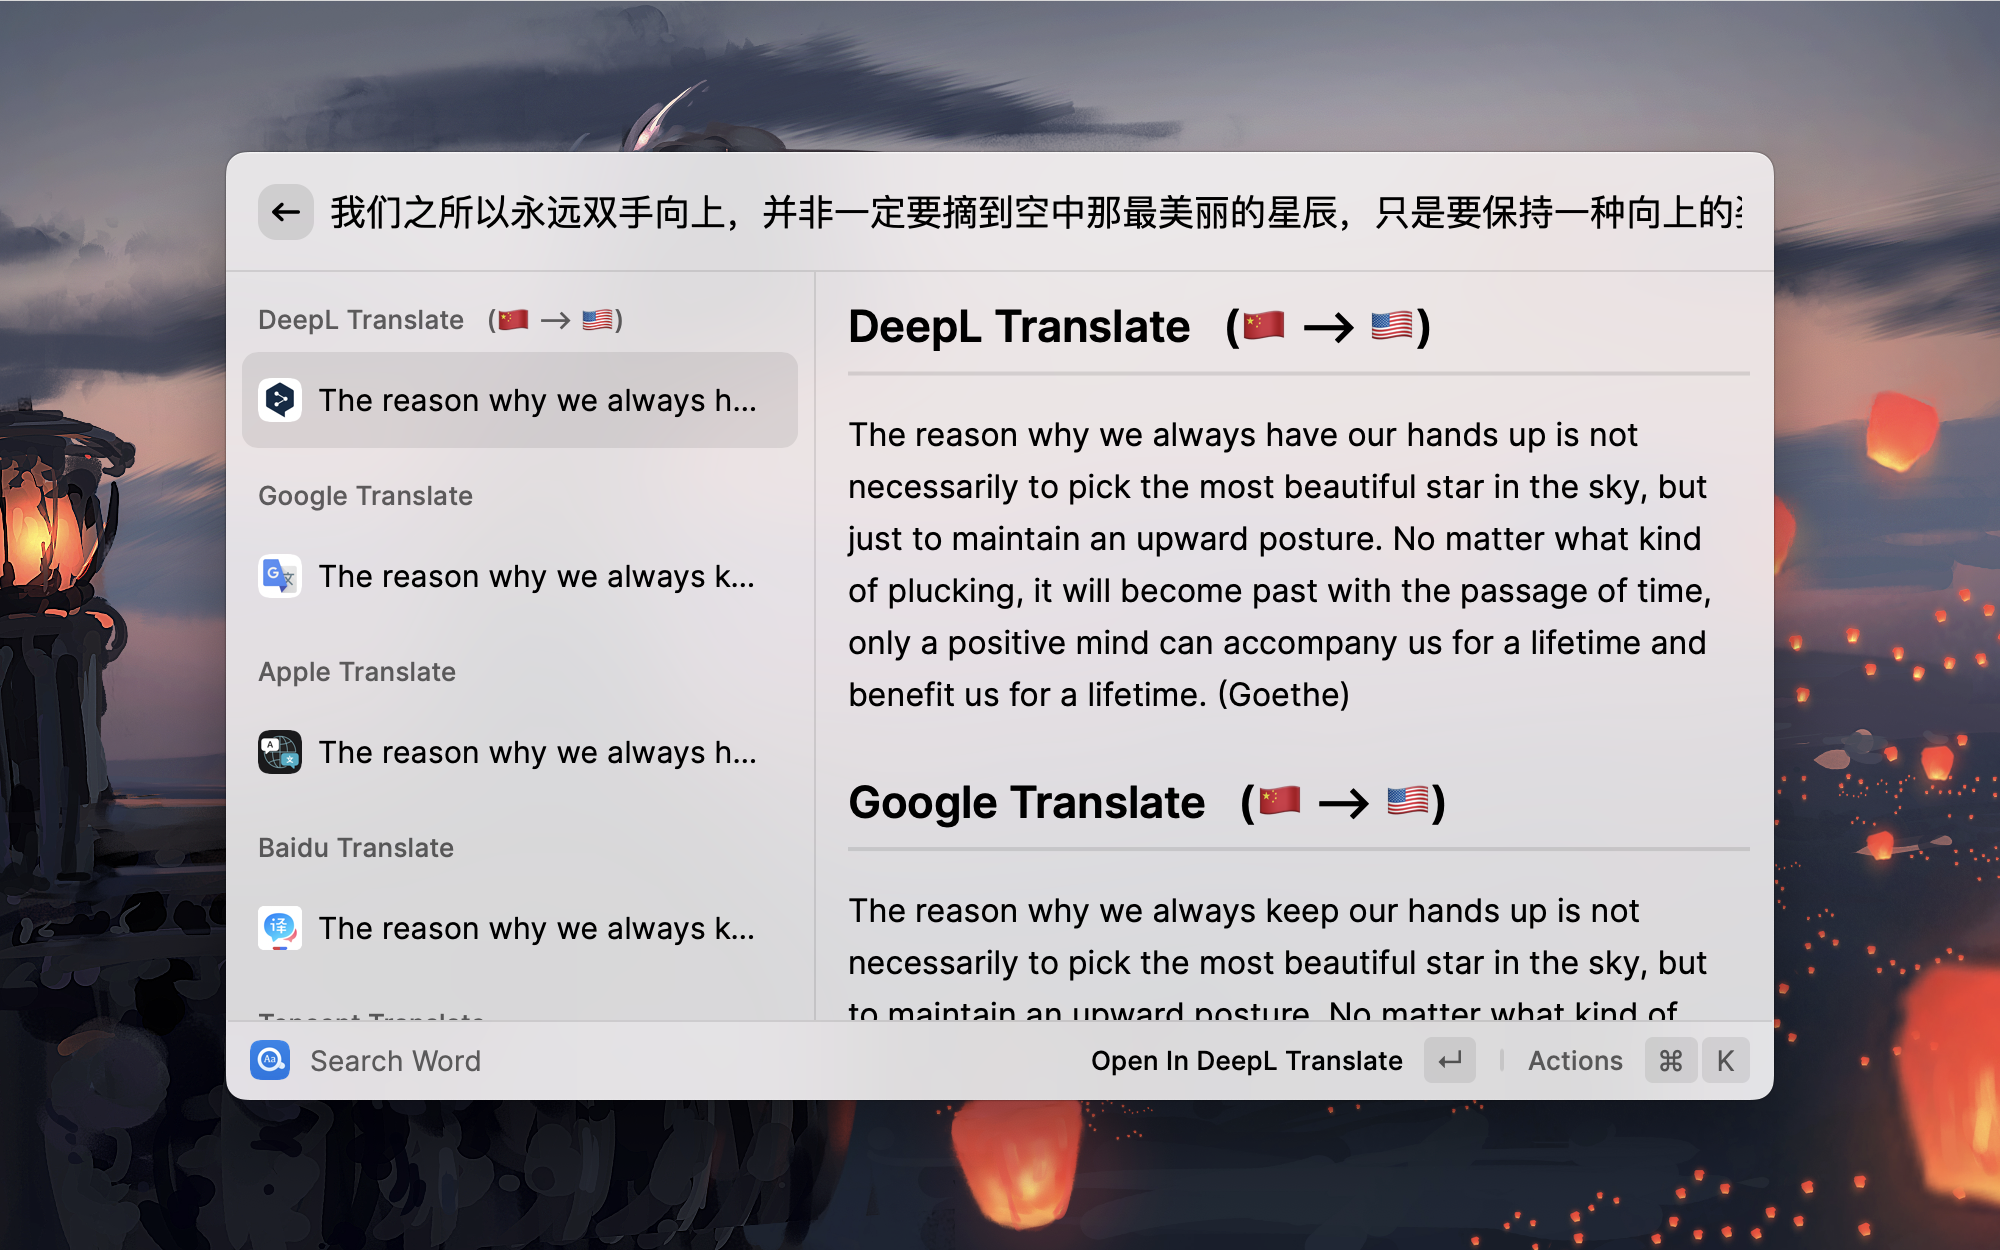
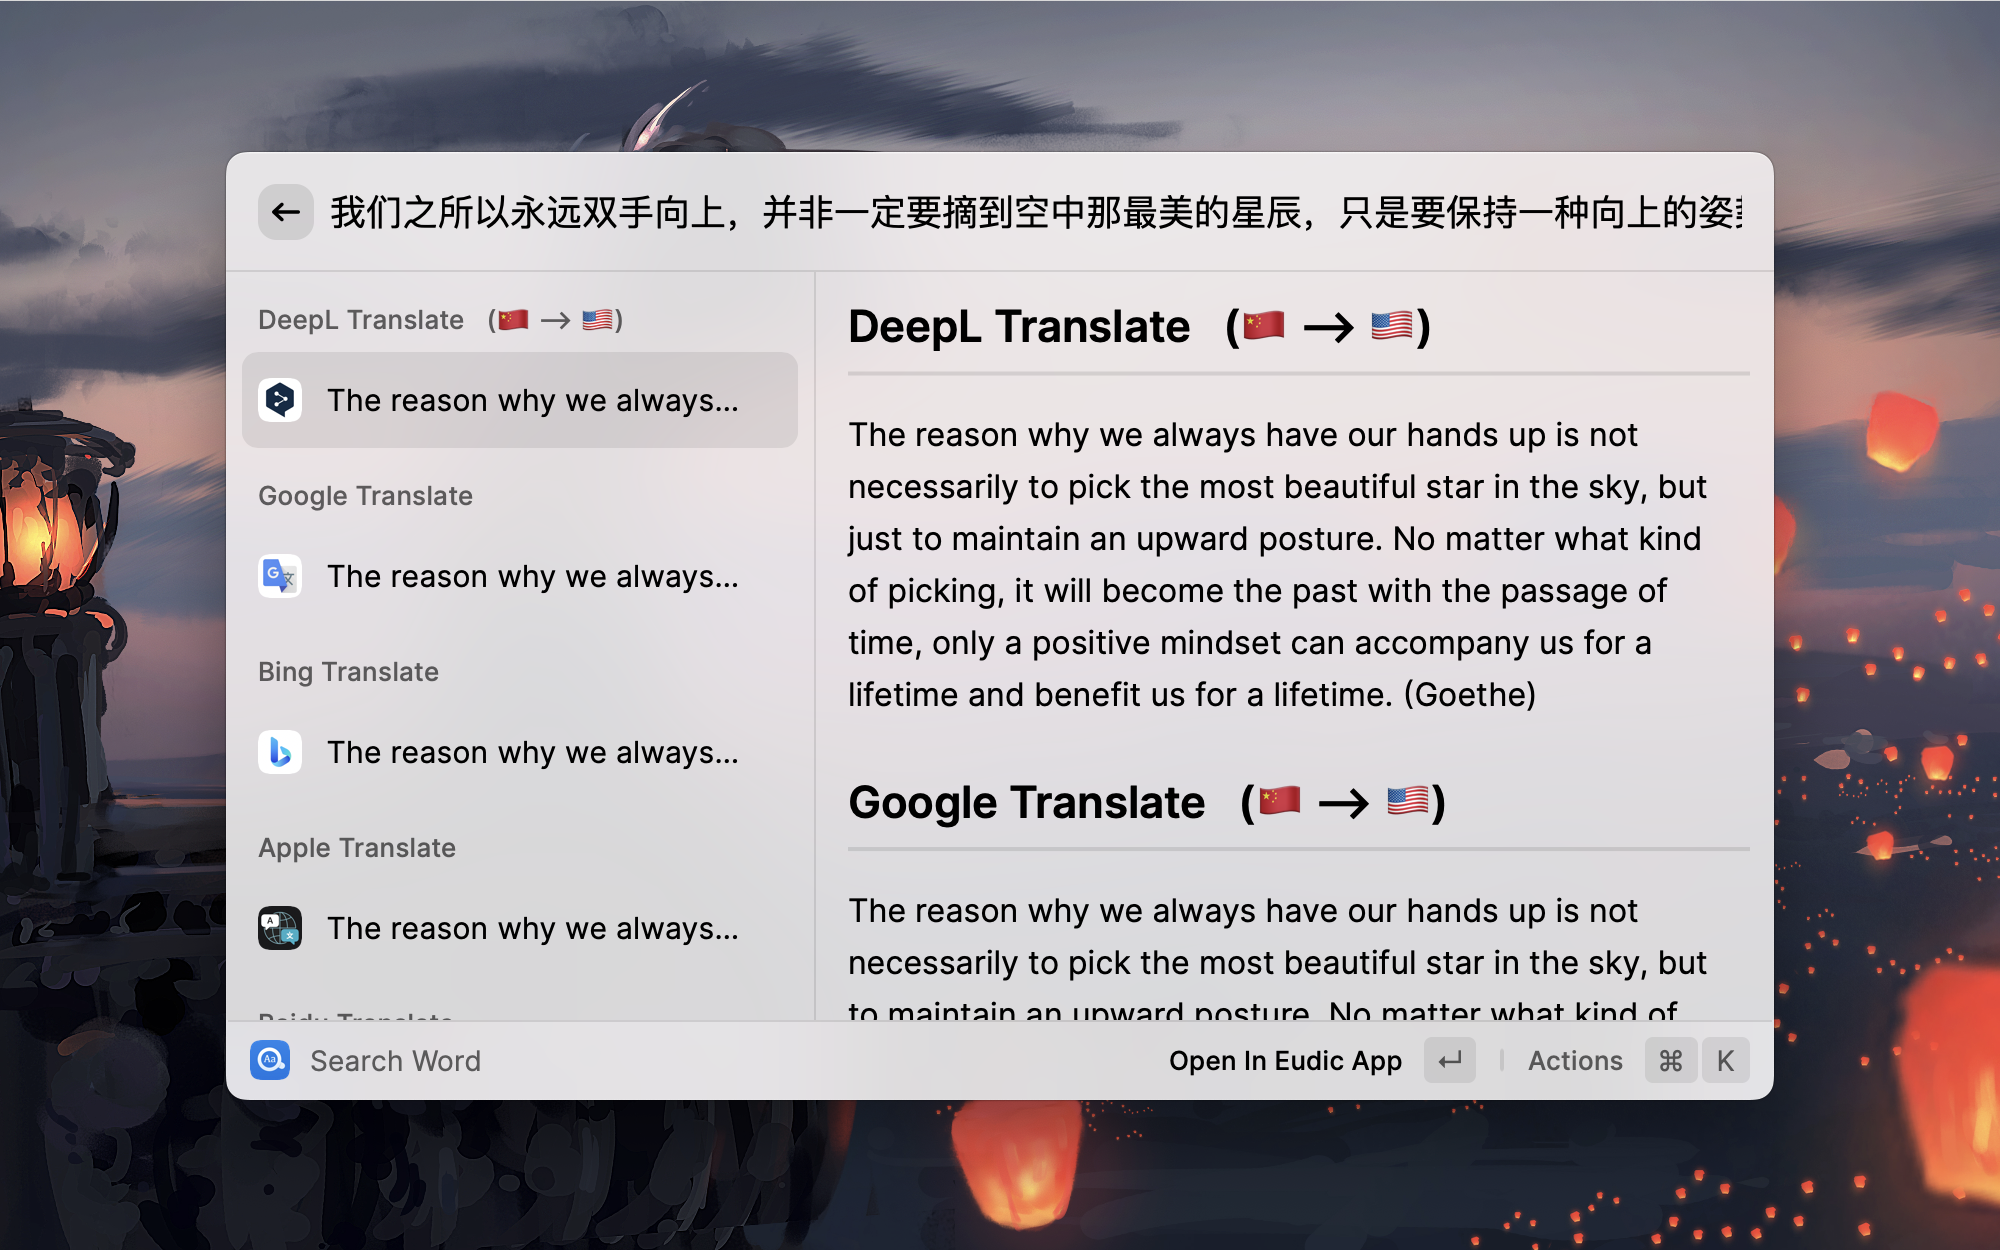
docs: update README and changelog

diff --git a/src/releaseVersion/releaseNote.ts b/src/releaseVersion/releaseNote.ts
@@ -2,35 +2,39 @@
  * @author: tisfeng
  * @createTime: 2022-07-03 22:10
  * @lastEditor: tisfeng
- * @lastEditTime: 2022-09-11 22:36
+ * @lastEditTime: 2022-09-20 00:08
  * @fileName: releaseNote.ts
  *
  * Copyright (c) 2022 by tisfeng, All Rights Reserved.
  */
 
 export const releaseNote = `
-## [v2.2.0] - 2022-09-12
+## [v2.3.0] - 2022-09-20
 
 ### ✨ 新功能
 
-- 添加有道词典维基百科释义。
-- 添加 Linguee 单词音标和收录考试类型。
+- 添加 Bing 翻译。
+- 添加 Bing 语种识别
 
-![Swift-1662903813](https://raw.githubusercontent.com/tisfeng/ImageBed/main/uPic/Swift-1662903813.png)
+![Bing-1663603058](https://raw.githubusercontent.com/tisfeng/ImageBed/main/uPic/Bing-1663603058.png)
 
-### 🐞 修复
 
-- 修复了 Web 有道翻译可能会出现错误 toast 的问题。
+### 💎 优化
+
+- 优化了启动速度，飞一般的感觉～
+- 优化了语种识别的速度和准确度。
+
+**_如果觉得这个扩展还不错，给个 [Star](https://github.com/tisfeng/Raycast-Easydict) ⭐ 支持一下吧～_**
 
 ---
 
-
 ### ✨ New
 
-- Added Youdao Dictionary Wikipedia definition.
-- Added Linguee word phonetic and exam type.
+- Added support for [Bing Translator](https://www.bing.com/translator).
+- Added Bing language detection.
 
-### 🐞 Fixes
+### 💎 Improvements
 
-- Fixed the problem that the Web Youdao translation may show an error toast.
+- Improved startup speed, flying feeling~
+- Improved the speed and accuracy of language detection.
 `;

diff --git a/src/releaseVersion/versionInfo.ts b/src/releaseVersion/versionInfo.ts
@@ -28,9 +28,9 @@ export class Easydict {
 
   // new version info
   // * NOTE: this is new version info, don't use it directly. Use getCurrentStoredVersionInfo() instead.
-  version = "2.2.0";
-  buildNumber = 10;
-  versionDate = "2022-09-12";
+  version = "2.3.0";
+  buildNumber = 11;
+  versionDate = "2022-09-20";
   isNeedPrompt = true;
   hasPrompted = false; // always default false, only show once, then should be set to true.
   releaseMarkdown = releaseNote;

diff --git a/README.md b/README.md
@@ -62,9 +62,9 @@ Next:
 
 ### Translation
 
-![easydict-5](https://raw.githubusercontent.com/tisfeng/ImageBed/main/uPic/easydict-5-1660916386.png)
+![easydict-5-1663604001](https://raw.githubusercontent.com/tisfeng/ImageBed/main/uPic/easydict-5-1663604001.png)
 
-![easydict-6](https://raw.githubusercontent.com/tisfeng/ImageBed/main/uPic/easydict-6-1660916492.png)
+![easydict-6-1663604086](https://raw.githubusercontent.com/tisfeng/ImageBed/main/uPic/easydict-6-1663604086.png)
 
 ## Installation
 
@@ -230,7 +230,7 @@ You can also specify a part of the sort, for example: `youdao dictionary, apple,
 
 ### System Proxy
 
-When this feature is enabled, `Easydict` will try to get the Mac system proxy. If succeeds, all subsequent network requests will be sent using the system proxy. This option is turned off by default. (This feature is to counteract IP blocking, because some services like Linguee have frequency restrictions on IPs)
+When this feature is turned on, `Easydict` will try to get the Mac system agent, and if successful, all subsequent network requests will be sent through the system agent. It is disabled by default. This feature is intended to counter IP blocking (some services such as Linguee have frequency restrictions on IPs), **but it can slow down the response time to requests, so please enable it only when needed. **
 
 ### Translation Services
 

diff --git a/docs/README_ZH.md b/docs/README_ZH.md
@@ -63,9 +63,9 @@
 
 ### 文本翻译
 
-![easydict-5](https://raw.githubusercontent.com/tisfeng/ImageBed/main/uPic/easydict-5-1660916386.png)
+![easydict-5-1663604001](https://raw.githubusercontent.com/tisfeng/ImageBed/main/uPic/easydict-5-1663604001.png)
 
-![easydict-6](https://raw.githubusercontent.com/tisfeng/ImageBed/main/uPic/easydict-6-1660916492.png)
+![easydict-6-1663604086](https://raw.githubusercontent.com/tisfeng/ImageBed/main/uPic/easydict-6-1663604086.png)
 
 ## 安装
 
@@ -229,7 +229,7 @@ npm install && npm run dev
 
 ### 支持系统代理
 
-开启该功能后，`Easydict` 会尝试获取 Mac 系统代理，若成功，则后续的网络请求都会通过系统代理发送。默认关闭。（此功能是为了对抗 IP 封锁，因为某些服务如 Linguee 对 IP 有频率限制）
+开启该功能后，`Easydict` 会尝试获取 Mac 系统代理，若成功，则后续的网络请求都会通过系统代理发送。默认关闭。 此功能是为了对抗 IP 封锁（某些服务如 Linguee 对 IP 有频率限制），**但开启后会使请求响应速度变慢，因此请仅在有需要时启用。**
 
 ### 翻译服务
 

diff --git a/CHANGELOG.md b/CHANGELOG.md
@@ -1,5 +1,21 @@
 # `Easydict` Changelog
 
+## [v2.3.0] - 2022-09-20
+
+### ✨ New
+
+- Added support for [Bing Translator](https://www.bing.com/translator).
+- Added Bing language detection.
+
+### 💎 Improvements
+
+- Improved startup speed, flying feeling~
+- Improved the speed and accuracy of language detection.
+
+![Bing-1663603058](https://raw.githubusercontent.com/tisfeng/ImageBed/main/uPic/Bing-1663603058.png)
+
+---
+
 ## [v2.2.0] - 2022-09-12
 
 ### ✨ New
@@ -12,8 +28,6 @@
 - Fixed the problem that the Web Youdao translation may show an error toast.
 
 ![Swift-1662903813](https://raw.githubusercontent.com/tisfeng/ImageBed/main/uPic/Swift-1662903813.png)
-
----
 
 ## [v2.1.0] - 2022-09-03
 
